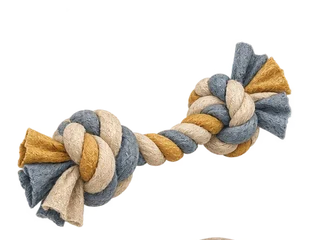
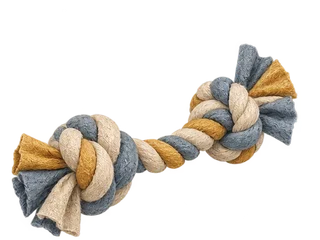
Complete pet-first release verification and remove temporary QA page

Changed region(s): [[0.0312, 0.175, 0.9375, 0.9917], [0.625, 0.9625, 0.75, 1.0]]

diff --git a/scripts/build_site.py b/scripts/build_site.py
@@ -71,7 +71,7 @@ def schema_script(data):
 
 def shell(title, description, body, category_id='', schema=None):
     url = f"{BASE_URL}{'categories/'+category_id+'/' if category_id else ''}"
-    return f'''<!doctype html><html lang="ja"><head><meta charset="utf-8"><meta name="viewport" content="width=device-width,initial-scale=1"><meta name="theme-color" content="#426553"><title>{esc(title)}</title><meta name="description" content="{esc(description)}"><meta name="robots" content="index,follow"><link rel="canonical" href="{esc(url)}"><link rel="icon" href="{BASE_URL}assets/favicon.svg" type="image/svg+xml"><link rel="manifest" href="{BASE_URL}assets/site.webmanifest"><meta property="og:type" content="website"><meta property="og:title" content="{esc(title)}"><meta property="og:description" content="{esc(description)}"><meta property="og:url" content="{esc(url)}"><meta property="og:image" content="{BASE_URL}assets/pet-home-morning.webp"><meta property="og:image:alt" content="朝の光の中でくつろぐ犬と猫、いつもの用品がある暮らし"><meta name="twitter:card" content="summary_large_image"><meta name="twitter:title" content="{esc(title)}"><meta name="twitter:description" content="{esc(description)}"><meta name="twitter:image" content="{BASE_URL}assets/pet-home-morning.webp">{schema_script(schema) if schema else ''}{analytics_head()}<style>{CSS}</style></head><body data-category-id="{esc(category_id)}" data-ui-version="pet-living-1" class="page-{esc(category_id or 'home')}"><a class="skip-link" href="#main">比較へ進む</a>{body}</body></html>'''
+    return f'''<!doctype html><html lang="ja"><head><meta charset="utf-8"><meta name="viewport" content="width=device-width,initial-scale=1"><meta name="theme-color" content="#426553"><title>{esc(title)}</title><meta name="description" content="{esc(description)}"><meta name="robots" content="index,follow"><link rel="canonical" href="{esc(url)}"><link rel="icon" href="{BASE_URL}assets/favicon.svg" type="image/svg+xml"><link rel="manifest" href="{BASE_URL}assets/site.webmanifest"><meta property="og:type" content="website"><meta property="og:title" content="{esc(title)}"><meta property="og:description" content="{esc(description)}"><meta property="og:url" content="{esc(url)}"><meta property="og:image" content="{BASE_URL}assets/living/home.webp"><meta property="og:image:alt" content="朝の光の中でくつろぐ犬と猫、いつもの用品がある暮らし"><meta name="twitter:card" content="summary_large_image"><meta name="twitter:title" content="{esc(title)}"><meta name="twitter:description" content="{esc(description)}"><meta name="twitter:image" content="{BASE_URL}assets/living/home.webp">{schema_script(schema) if schema else ''}{analytics_head()}<style>{CSS}</style></head><body data-category-id="{esc(category_id)}" data-ui-version="pet-living-1" class="page-{esc(category_id or 'home')}"><a class="skip-link" href="#main">比較へ進む</a>{body}</body></html>'''
 
 
 def icon(kind):

diff --git a/scripts/prepare_living_art.py b/scripts/prepare_living_art.py
@@ -39,7 +39,7 @@ def main():
  for i,name in enumerate(['dog-young','dog-adult','dog-senior','cat-young','cat-adult','cat-senior']):
   x=i%3*512;y=0 if i<3 else 490;bottom=490 if i<3 else 1024;export('ages',name,(x,y,x+512,bottom))
  for name,box in zip(['size-small','size-medium','size-large'],[(0,0,530,887),(530,0,1070,887),(1070,0,1774,887)]):export('sizes',name,box)
- for name,box in zip(['chew','chase','together','puzzle','teaser','hide'],[(0,0,500,500),(505,0,955,450),(960,0,1536,485),(0,505,503,965),(505,505,950,1024),(955,490,1536,1024)]):
+ for name,box in zip(['chew','chase','together','puzzle','teaser','hide'],[(0,0,500,500),(505,0,955,450),(960,0,1536,465),(0,505,503,965),(505,505,950,1024),(955,490,1536,1024)]):
   export('play','play-'+name,box)
  (OUT/'manifest.json').write_text(json.dumps({'version':'pet-living-2','mode':'built-in-imagegen','assets':records},ensure_ascii=False,indent=2))
  print(f'{len(records)} assets, {sum(r["bytes"] for r in records):,} bytes')

diff --git a/docs/pet-living-release-check.md b/docs/pet-living-release-check.md
@@ -1,0 +1,45 @@
+# ペット起点の用品選び：公開確認
+
+## 今回の判断
+
+既存の条件比較・使用量計算は有用だった一方、トップはトイレ消耗品3種の入口に限られ、その子のごはんや遊びを探す導線がなかった。プロフィールと価格順位を混同せず、犬猫を選ぶ → 用品 → 必要な条件 → 候補・暮らしの数字、という構造を追加した。
+
+日用品版の価格検索・価格判定とは異なり、個体と家庭の条件を先に確認する。既存の条件が決まっている人には直接比較を残し、重複する入口の見出しを「いつもの用品をすぐ比べる」に整理した。
+
+## 実装範囲
+
+- 犬3入口、猫4入口。ごはん・遊び・既存トイレ用品へ段階的に進む。
+- 任意プロフィール：犬猫の年齢、犬の現在の体格、体重、犬種・猫種。犬種・猫種は任意テキスト入力。体重・種類から商品適合や給与量を推測しない。
+- プロフィール保存はチェックした場合だけ。犬猫ごとに分けて復元し、保存不可でもページ内で利用可能。既存の条件・使用量の記憶を維持。
+- 犬猫両フード：入力した内容量・価格・1日量から日数、1日と30日の費用、100g・1kg単価へ換算。商品比較はメーカーSKU照合が済むまで掲載保留。
+- おもちゃ：遊び方を選ぶ発見体験。個別照合済みの犬1件・猫1件から開始。価格順位は付けない。年齢未確認の候補は年齢指定時に除外し、サイズ不一致も除外する。
+- 比較ロジック、TOP3、3つの買い方、理由表示、店頭比較、楽天URL、数量解析、分類、重複排除、Secrets、既存イベント、SEO、自動更新、Pages競合対策は維持。
+
+## アート
+
+新しいガッシュ・色鉛筆感の編集イラストを6枚のマスターから28点の正式WebPへ展開。朝の光、生成り・セージ・淡い青を統一。犬猫を擬人化しない。サイズと年齢の選択図版、遊び道具にも同じ画材感を使う。
+
+`care_art()` はホーム用品とカテゴリ上部を新シリーズへ切り替え、機能的に良かった既存の素材・サイズ・本体図版は維持。小さな `icon()` の線画SVGも維持。OG/Twitter画像も新しいメインビジュアルへ統一。幅・高さを指定し、画像は遅延読み込みとWebPで配信。
+
+制作モード、全プロンプト、マスターと切り出しの根拠は [pet-living-art.md](pet-living-art.md) と `assets/living/manifest.json` に記録。
+
+## 検証結果
+
+- Python 37件、DOM操作19件、合計56件成功。
+- 既存63商品（シーツ23・猫砂30・システムシート10）と新しいおもちゃ2件、合計65商品が品質監査を通過。フード商品は0件の掲載保留。
+- 公開PC・390×844pxのiPhone相当幅で犬猫導線、プロフィール、全7カテゴリを確認。実機Safariの検証ではない。
+- 既存3カテゴリ・全13条件をPCとスマホで操作。最安、件数、順位、理由、固定サマリー、TOP3と3つの買い方の同期を確認。
+- シーツ800枚・1日5枚 → 約160日、30日約615円。猫砂60L・月10L → 約6か月、月約670円。システムシート240枚・週1枚 → 約240週、30日約373円。
+- 犬猫フード2,000g・3,000円・1日120g → 約16.7日、1日約180円、30日約5,400円。無効値はエラー表示。
+- 店頭計算を3カテゴリで確認。楽天のアフィリエイトリンクが対応商品ページに到達することを確認。
+- プロフィールの保存・再読込・削除、候補がない状態、未確認年齢と不一致サイズの除外を確認。
+- 猫じゃらし画像の一時読み込み失敗は再表示で解消。PC・スマホで正常表示を確認し、切り出しの隣の絵も最終調整した。
+- GA4タグ、canonical、構造化データ、sitemapを維持。既存計測の回帰テストと新イベント発火テストを実施。GA4管理画面の受信レポートは今回確認していない。
+- 新イベント：`pet_species_select`、`pet_supply_select`、`pet_profile_change`、`pet_profile_clear`、`pet_play_select`、`pet_food_calculator_use`。体重・犬種・猫種や計算入力値を送信しない。
+- PR #35・#36のCIとmainのBuild/deploy成功。公開済みのPagesでも確認。最終整理PRでは確認用noindexページを削除する。
+
+## 次段階
+
+フードのメーカーSKU照合と同条件商品比較、遊び候補の拡充、犬種・猫種の主要候補イラスト選択。健康条件への自動推薦や独自給与量推定は追加しない。おもちゃの個別確認は180日で失効し、表記変更時も再照合する。
+
+![犬から用品を選ぶ公開画面](pet-living-published-20261001.jpg)
